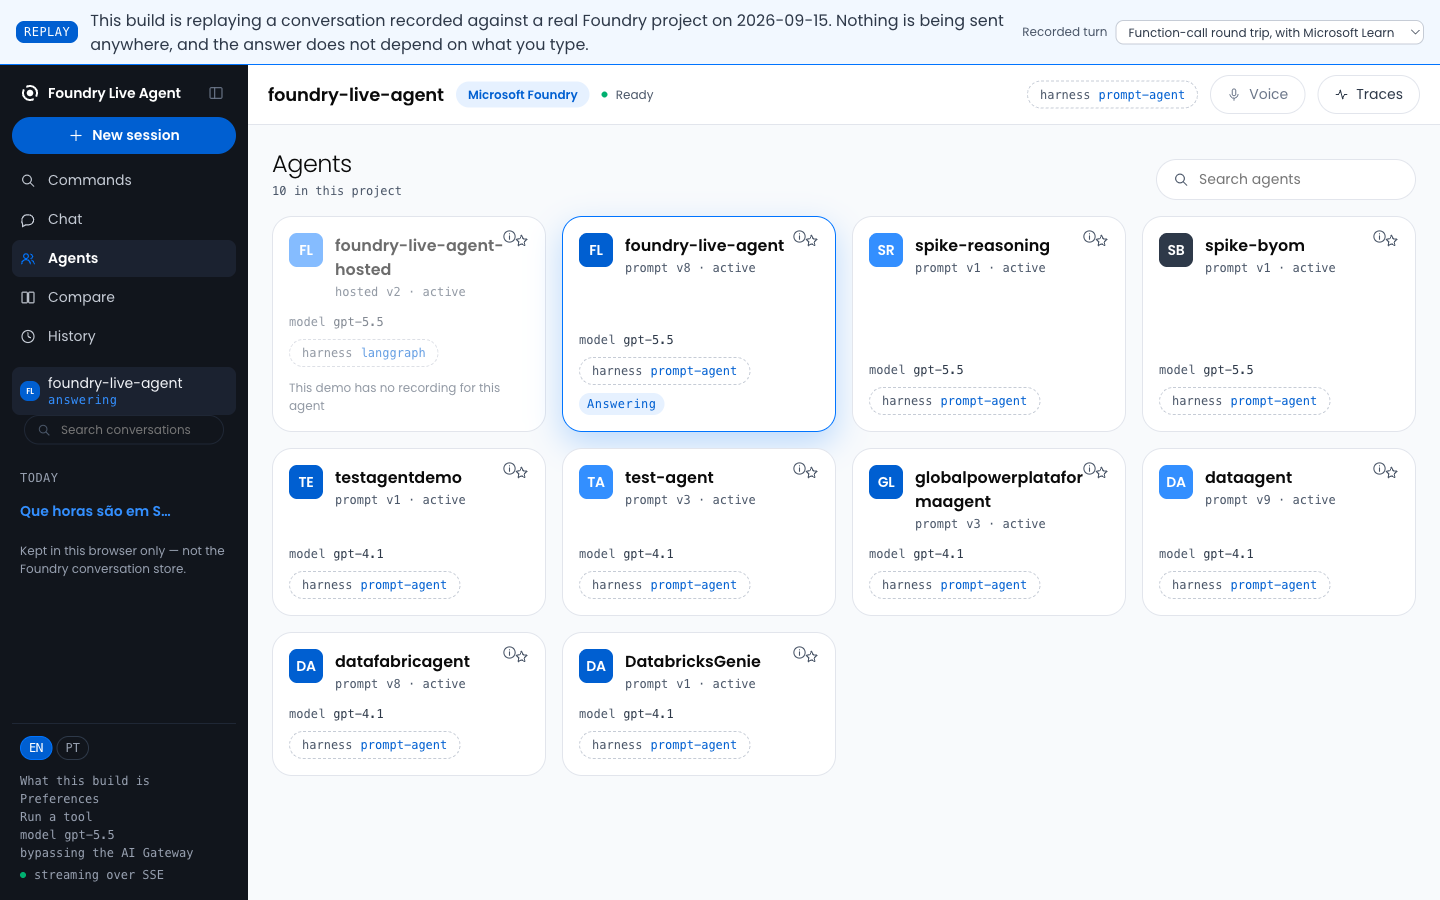
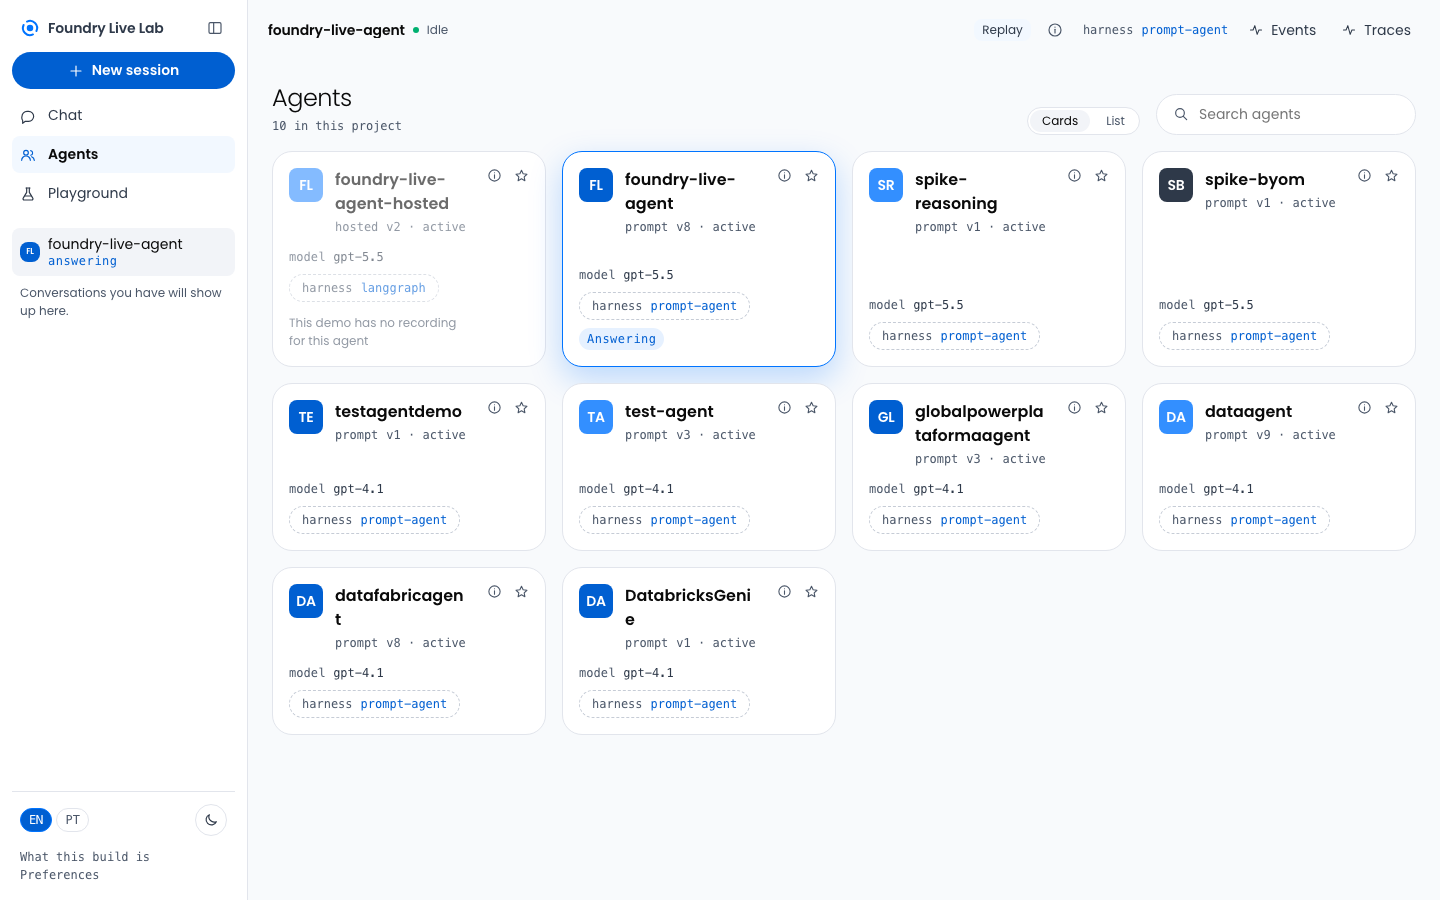
docs: retake the README screenshots from the current demo (#10)
The captures still showed "Foundry Live Agent" and a UI that spec 060 had already replaced
(Commands, Compare and History in the rail, a dark default, the full-width replay banner). All of
them came from `just demo`, so docs/assets/demo-captures/capture.mjs now retakes them, plus the
streaming GIF, in one run. It starts its own demo BFF and Vite on side ports, so it can stop the
BFF on purpose for the error shot, as the original capture did.

Captions follow what the new shots show. The error card reads "Failed to fetch": with the BFF
stopped, the browser cannot reach it at all. The GIF caption describes spec 061's folded tool
line. The GIF is slowed 1.5x, so "slowed a little" stays true. The voice shot is unchanged: the
demo has no voice endpoint.

diff --git a/README.pt-BR.md b/README.pt-BR.md
@@ -382,7 +382,7 @@ normalizador de verdade. Escolha qual turno gravado assistir pelo ícone de info
 Replay permanece visível; o painel reúne data e explicação da gravação, modelo, gateway e SSE.
 A entrada de voz fica no compositor do chat, não no cabeçalho (spec 059).
 
-![Um turno sendo reproduzido: o card de raciocínio se preenche, quatro linhas de ferramenta chegam uma a uma, e então a resposta faz streaming](docs/assets/demo-streaming-turn.gif)
+![Um turno sendo reproduzido: a linha ao vivo diz que o agente está trabalhando, as quatro chamadas de ferramenta se recolhem numa linha, e então a resposta faz streaming](docs/assets/demo-streaming-turn.gif)
 
 _Um turno, reproduzido. O resumo do raciocínio chega primeiro, depois as duas function calls que
 esta aplicação executa e as duas chamadas ao Microsoft Learn que o Foundry executa, e então a
@@ -447,8 +447,8 @@ Opcional — o AI Gateway é um fluxo de portal sem caminho de IaC: `just gatewa
 ## 📸 Telas
 
 Todos os prints abaixo saem do `just demo`, nas larguras indicadas — então cada um é algo que você
-coloca na sua própria tela em cerca de um minuto, sem conta no Azure. A faixa dessas capturas históricas faz parte daquela build; não é mock.
-A interface atual mantém um pequeno indicador Replay e reúne os detalhes no ícone de informação (spec 059).
+coloca na sua própria tela em cerca de um minuto, sem conta no Azure. O pequeno indicador Replay no cabeçalho é o demo dizendo que é demo; os detalhes ficam no ícone de
+informação (spec 059). `node docs/assets/demo-captures/capture.mjs` refaz todas elas.
 
 | | |
 |---|---|
@@ -456,7 +456,7 @@ A interface atual mantém um pequeno indicador Replay e reúne os detalhes no í
 | **A gaveta de trace** (specs 005, 014). `invoke_agent` sobre duas chamadas MCP do Learn e a chamada de modelo, com durações reais — e a linha que importa: *"O Foundry rastreia o que o Foundry executa. Ferramentas que esta aplicação executa não deixam span."* É a §8 aparecendo na telemetria. | **O inspetor de eventos** (spec 038), a 1680px, onde ele ganha uma coluna própria. Todos os eventos SSE normalizados do BFF no turno, filtrados por tipo, com o relatório de honestidade do próprio contrato acima: *21 de 25 nomes de evento do Foundry verificados contra uma execução gravada.* |
 | [![A tela de agentes: dez cards de um projeto real, cada um com tipo, versão, status e harness; o hosted desabilitado](docs/assets/screenshot-agents.png)](docs/assets/screenshot-agents.png) | [![A mesma tela de agentes no tema escuro](docs/assets/screenshot-dark.png)](docs/assets/screenshot-dark.png) |
 | **A tela de agentes** (specs 019, 030). Dez agentes de um projeto Foundry real — oito deles este repositório não escreveu. O card desabilitado não é escondido: ele diz, no idioma de quem lê, *por que* não pode responder. | **Dois temas** (specs 036, 060). Claro é o padrão, um botão sol/lua na barra lateral alterna, e `system` remove o atributo em vez de escrever um. Todo literal de cor mora na paleta vendorizada; o `app.css` nomeia tokens e um teste garante isso. |
-| [![Dois quadros em largura de celular lado a lado: um turno a 390px, e a barra de navegação aberta por cima dele](docs/assets/screenshot-narrow.png)](docs/assets/screenshot-narrow.png) | [![Um turno que falhou renderizado como card de erro, dizendo "the BFF answered 502"](docs/assets/screenshot-error.png)](docs/assets/screenshot-error.png) |
+| [![Dois quadros em largura de celular lado a lado: um turno a 390px, e a barra de navegação aberta por cima dele](docs/assets/screenshot-narrow.png)](docs/assets/screenshot-narrow.png) | [![Um turno que falhou renderizado como card de erro, dizendo "Failed to fetch"](docs/assets/screenshot-error.png)](docs/assets/screenshot-error.png) |
 | **390px** (spec 047). A barra nunca é escondida — abaixo de 760px ela vem **por cima** da conversa, porque `display: none` também tira o controle da árvore de acessibilidade, e essa barra é o único caminho para cinco das sete telas. | **Um turno que falhou** (spec 003). O BFF foi derrubado no meio da sessão de propósito. Um turno sempre termina em `done` ou `error` e nunca simplesmente emudece — a promessa da §9, renderizada. |
 
 <details>

diff --git a/README.md b/README.md
@@ -379,7 +379,7 @@ which recorded turn to watch from the information icon in the header. A compact 
 stays visible; the disclosure holds the recording date and explanation, model, gateway and SSE facts.
 Voice entry remains in the chat composer, not the header (spec 059).
 
-![A turn replaying: the reasoning card fills in, four tool rows land one by one, then the answer streams in](docs/assets/demo-streaming-turn.gif)
+![A turn replaying: the live line says the agent is working, its four tool calls fold into one line, then the answer streams in](docs/assets/demo-streaming-turn.gif)
 
 _One turn, replayed. The reasoning summary arrives first, then the two function calls this app runs
 and the two Microsoft Learn calls Foundry runs, then the answer. Nothing here is a mock: these are
@@ -442,8 +442,8 @@ Optional — the AI Gateway is a portal flow with no IaC path: `just gateway` pr
 ## 📸 Screenshots
 
 Every shot below is from `just demo`, at the widths named — so each one is a thing you can put on
-your own screen in about a minute, with no Azure account. The banner shown in these historical captures belongs to that recorded build, not a mock-up.
-The current UI keeps a compact Replay label and puts its details behind the information icon (spec 059).
+your own screen in about a minute, with no Azure account. The compact Replay label in the header is the demo saying so; its details sit behind the information
+icon (spec 059). `node docs/assets/demo-captures/capture.mjs` retakes all of them.
 
 | | |
 |---|---|
@@ -451,7 +451,7 @@ The current UI keeps a compact Replay label and puts its details behind the info
 | **The trace drawer** (specs 005, 014). `invoke_agent` over two Learn MCP calls and the model call, with real durations — and the line that matters: *"Foundry traces what Foundry runs. Tools this app executes leave no span."* That is §8 showing up in telemetry. | **The event inspector** (spec 038), at 1680px where it takes a column of its own. Every normalized BFF SSE event of the turn, filtered by type, with the contract's own honesty report above it: *21 of 25 Foundry event names verified against a recorded run.* |
 | [![The agents screen: ten agent cards from a real project, each with kind, version, status and harness; the hosted one dimmed](docs/assets/screenshot-agents.png)](docs/assets/screenshot-agents.png) | [![The same agents screen in the dark theme](docs/assets/screenshot-dark.png)](docs/assets/screenshot-dark.png) |
 | **The agents screen** (specs 019, 030). Ten agents from a real Foundry project — eight of which this repository did not write. The dimmed card is not hidden: it says, in the reader's language, *why* it cannot answer. | **Two themes** (specs 036, 060). Light is the default, a sun/moon switch in the rail flips it, and `system` removes the attribute rather than writing one. Every colour literal lives in the vendored palette; `app.css` names tokens and a test enforces it. |
-| [![Two phone-width frames side by side: a turn at 390px, and the navigation rail open over it](docs/assets/screenshot-narrow.png)](docs/assets/screenshot-narrow.png) | [![A failed turn rendered as an error card reading "the BFF answered 502"](docs/assets/screenshot-error.png)](docs/assets/screenshot-error.png) |
+| [![Two phone-width frames side by side: a turn at 390px, and the navigation rail open over it](docs/assets/screenshot-narrow.png)](docs/assets/screenshot-narrow.png) | [![A failed turn rendered as an error card reading "Failed to fetch"](docs/assets/screenshot-error.png)](docs/assets/screenshot-error.png) |
 | **390px** (spec 047). The rail is never hidden — below 760px it comes **over** the conversation, because `display: none` takes a control out of the accessibility tree too, and this one is the only route to five of the seven screens. | **A turn that failed** (spec 003). The BFF was stopped mid-session on purpose. A turn always ends in `done` or `error` and never just goes quiet — §9's promise, rendered. |
 
 <details>

diff --git a/AGENTS.md b/AGENTS.md
@@ -523,6 +523,8 @@ violation.
   the Voice Live session lifecycle · hosted continuity · charts in answers.
 - `docs/assets/message-journey/` — the source of the README's "follow one message" GIFs
   (`journey.html`, bilingual) and `record.mjs`, which regenerates them; move it with the code it cites.
+- `docs/assets/demo-captures/capture.mjs` — retakes the README's screenshots and the streaming GIF
+  from `just demo`, BFF stop included for the error shot; the voice shot needs a live session.
 - `docs/REFERENCES.md` — every Foundry doc URL and API version relied on (§10).
 - `docs/development-workflow.md` — SDD + TDD, the contributor companion to the constitution.
 - `docs/learning-journey.md` ↔ `docs/learning-journey.pt-BR.md` — educational modules, evidence and

diff --git a/CLAUDE.md b/CLAUDE.md
@@ -521,6 +521,8 @@ violation.
   the Voice Live session lifecycle · hosted continuity · charts in answers.
 - `docs/assets/message-journey/` — the source of the README's "follow one message" GIFs
   (`journey.html`, bilingual) and `record.mjs`, which regenerates them; move it with the code it cites.
+- `docs/assets/demo-captures/capture.mjs` — retakes the README's screenshots and the streaming GIF
+  from `just demo`, BFF stop included for the error shot; the voice shot needs a live session.
 - `docs/REFERENCES.md` — every Foundry doc URL and API version relied on (§10).
 - `docs/development-workflow.md` — SDD + TDD, the contributor companion to the constitution.
 - `docs/learning-journey.md` ↔ `docs/learning-journey.pt-BR.md` — educational modules, evidence and
